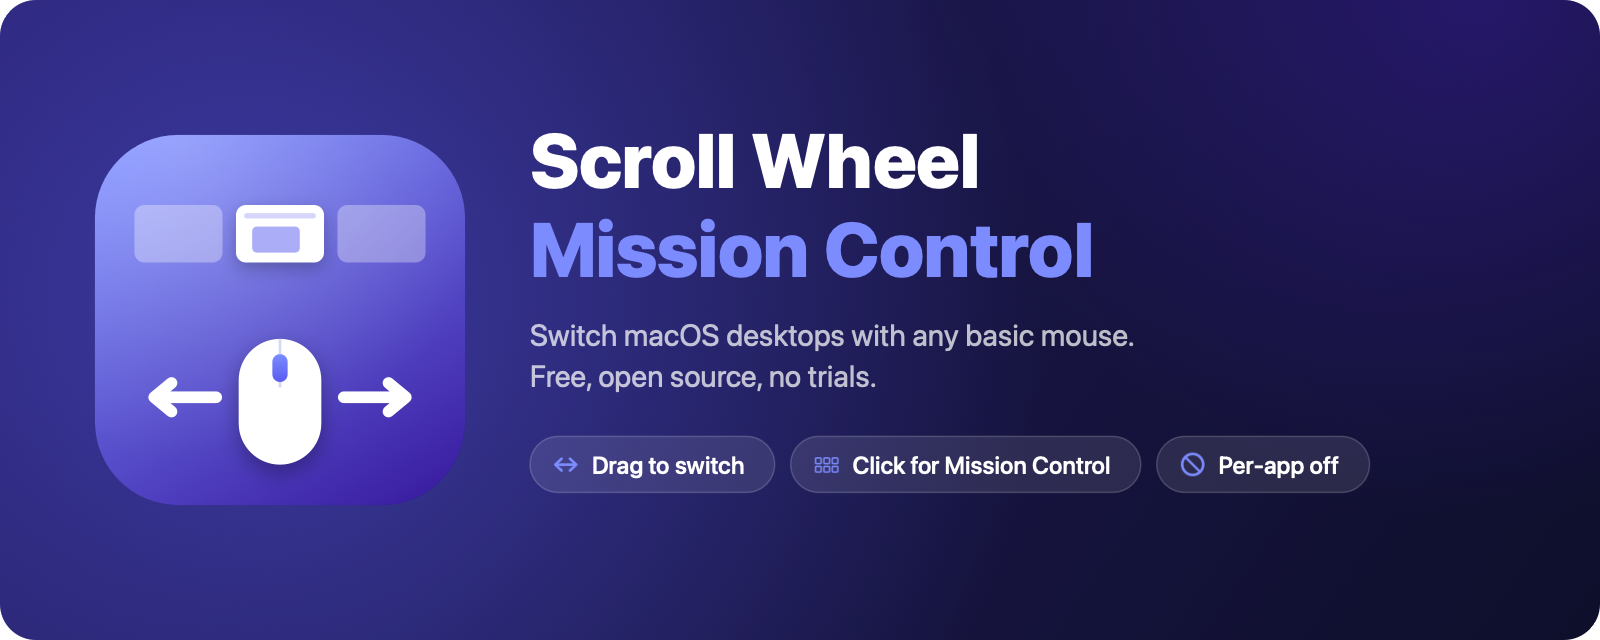
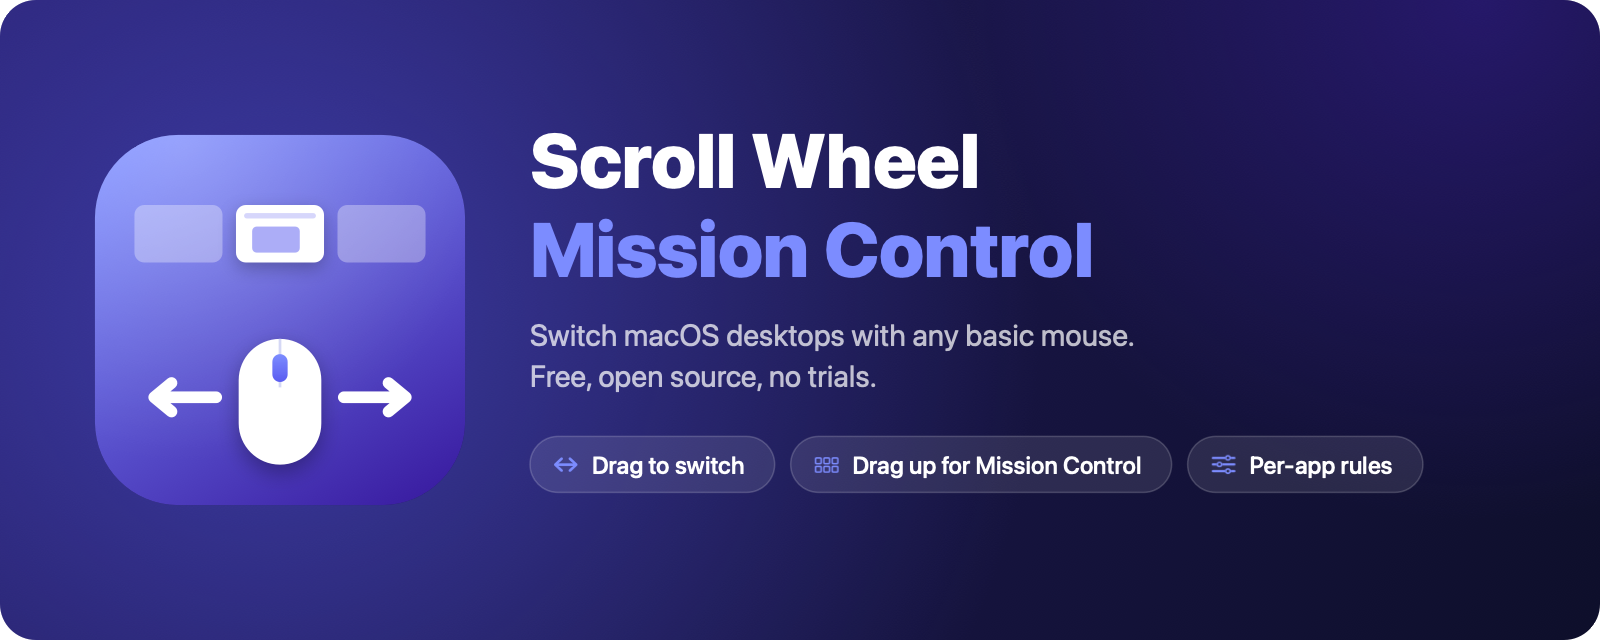
Update README, artwork and screenshots for 1.1.0

Changed region(s): [[0.5312, 0.6875, 0.875, 0.7812], [0.8438, 0.6562, 0.875, 0.6875]]

diff --git a/scripts/generate-art.swift b/scripts/generate-art.swift
@@ -202,8 +202,8 @@ func drawBanner(_ rect: CGRect) {
     y -= 44
     var x = left
     x += drawPill("Drag to switch", symbol: "arrow.left.and.right", at: CGPoint(x: x, y: y - 56)) + 16
-    x += drawPill("Click for Mission Control", symbol: "square.grid.3x2", at: CGPoint(x: x, y: y - 56)) + 16
-    _ = drawPill("Per-app off", symbol: "nosign", at: CGPoint(x: x, y: y - 56))
+    x += drawPill("Drag up for Mission Control", symbol: "square.grid.3x2", at: CGPoint(x: x, y: y - 56)) + 16
+    _ = drawPill("Per-app rules", symbol: "slider.horizontal.3", at: CGPoint(x: x, y: y - 56))
 }
 
 func drawGestureCard(_ rect: CGRect, symbol: String, title: String, body: String) {
@@ -231,9 +231,9 @@ func drawGestures(_ rect: CGRect) {
     let cards: [(String, String, String)] = [
         ("arrow.left.and.right", "Hold wheel + drag",
          "Move exactly one desktop left or right. Release and drag again to keep going."),
-        ("computermouse.fill", "Click the wheel",
-         "Open Mission Control, show the app's windows, or keep a normal middle click."),
-        ("nosign", "Exclude apps",
+        ("arrow.up.and.down", "Drag up or down",
+         "Mission Control and App Exposé, like a trackpad swipe. A click stays a normal middle click."),
+        ("slider.horizontal.3", "Per-app rules",
          "Blender and other 3D apps keep the middle button for orbiting and panning."),
     ]
     let pad: CGFloat = 48, gap: CGFloat = 28

diff --git a/README.md b/README.md
@@ -18,16 +18,16 @@
 
 # Scroll Wheel Mission Control
 
-**Use any cheap mouse to switch desktops on your Mac.** Hold the scroll wheel and drag left or right to move one desktop. Click the wheel to open Mission Control.
+**Use any cheap mouse to switch desktops on your Mac.** Hold the scroll wheel and drag left or right to move one desktop. Drag up for Mission Control, down for App Exposé. A plain click stays a normal middle click.
 
-Trackpads have swipe gestures for this. Regular mice don't, and the apps that add it usually want a subscription or a paid license after a trial. This app is free, small, and open source. It has no analytics and makes no network requests.
+Trackpads have swipe gestures for this. Regular mice don't, and the apps that add it usually want a subscription or a paid license after a trial. This app is free, small, and open source. It has no analytics, and it makes no network requests unless you turn on the optional update check.
 
 > [!TIP]
 > **Free forever. $0, no trial, no license key, no "pro" version, no ads, no tracking.**
 > If you found this while looking for a free alternative to Mac Mouse Fix, SteerMouse, BetterTouchTool or a vendor mouse app just to switch desktops, you're in the right place. See [the promise](#free-forever).
 
 <p align="center">
-  <img src="docs/images/gestures.png" alt="Hold wheel and drag to switch desktops, click the wheel for Mission Control, exclude apps like Blender" width="100%">
+  <img src="docs/images/gestures.png" alt="Hold wheel and drag left or right to switch desktops, drag up or down for Mission Control and App Exposé, per-app rules for apps like Blender" width="100%">
 </p>
 
 ## Contents
@@ -50,10 +50,12 @@ Trackpads have swipe gestures for this. Regular mice don't, and the apps that ad
 ## Features
 
 - **Drag to switch desktops.** Hold the scroll wheel and drag left or right. Each drag moves exactly one desktop, so you never fly past the one you want.
-- **Click for Mission Control.** A plain wheel click opens Mission Control. You can switch it to App Exposé or leave the normal middle click alone.
+- **Drag up or down for Mission Control and App Exposé**, like a three-finger swipe on a trackpad. Each direction can also be set to Show Desktop or nothing.
+- **Middle click still works.** A plain wheel click stays a normal middle click (open links in new tabs). You can make it open Mission Control or App Exposé instead, or do nothing.
 - **Natural or standard direction.** Natural moves the screen with your hand, like pushing it aside. Standard matches the arrow keys.
 - **Adjustable drag distance.** Choose how far you have to drag before it counts.
-- **Per-app exclusions.** Blender is excluded out of the box, so middle-mouse orbit and pan keep working. Add any other app in two clicks.
+- **Per-app rules.** Turn the app off completely for Blender and other 3D tools (Blender is set up out of the box), or keep gestures but always pass the plain click through.
+- **Optional update check.** Off by default. When on, it tells you when a new version is out. It never downloads or installs anything by itself.
 - **Menu bar app.** No Dock icon. Pause it from the menu bar whenever you like.
 - **Launch at login**, using the standard macOS login items.
 - **Universal binary.** Runs natively on Apple Silicon and Intel Macs with macOS 13 Ventura or later.
@@ -101,11 +103,13 @@ The app needs **Accessibility** permission so it can see scroll wheel clicks and
 | --- | --- |
 | Hold the wheel, drag **right** | Go to the desktop on the **left** (natural) or **right** (standard) |
 | Hold the wheel, drag **left** | Go to the desktop on the **right** (natural) or **left** (standard) |
-| Click the wheel | Open Mission Control (configurable) |
+| Hold the wheel, drag **up** | Open Mission Control (configurable) |
+| Hold the wheel, drag **down** | Show the current app's windows, App Exposé (configurable) |
+| Click the wheel | Normal middle click (configurable) |
 
-Each drag moves one desktop. To move further, release the wheel and drag again.
+Each drag does one thing. To move further, release the wheel and drag again. Whichever direction you drag furthest wins, so a slightly diagonal drag still counts as left, right, up or down.
 
-**Don't have multiple desktops yet?** Click the wheel to open Mission Control, then click the **+** at the top right of the screen to add one.
+**Don't have multiple desktops yet?** Drag up to open Mission Control, then click the **+** at the top right of the screen to add one.
 
 ## Settings
 
@@ -114,7 +118,7 @@ Open **Settings...** from the menu bar icon, or open the app again from Spotligh
 <p align="center">
   <picture>
     <source media="(prefers-color-scheme: dark)" srcset="docs/images/settings-dark.png">
-    <img src="docs/images/settings-light.png" alt="Settings window with gesture, click action and excluded apps options" width="460">
+    <img src="docs/images/settings-light.png" alt="Settings window with gesture actions, drag distance, app rules and update options" width="460">
   </picture>
 </p>
 
@@ -122,12 +126,20 @@ Open **Settings...** from the menu bar icon, or open the app again from Spotligh
 | --- | --- | --- |
 | Enable scroll wheel gestures | Master on/off switch. Also available in the menu bar. | On |
 | Launch at login | Start automatically when you log in | Off |
-| Drag direction | **Natural**: drag right to reveal the desktop on the left. **Standard**: drag right to go right. | Natural |
-| Drag distance | How far (in points) you must drag before it switches | 30 pt |
-| Wheel click | Open Mission Control, show app windows (App Exposé), or a normal middle click | Mission Control |
-| Excluded apps | While one of these apps is in front, the wheel works normally | Blender |
+| Drag left / right | Switch desktop. **Natural**: drag right to reveal the desktop on the left. **Standard**: drag right to go right. | Natural |
+| Drag up | Mission Control, App Exposé, Show Desktop, or nothing | Mission Control |
+| Drag down | Mission Control, App Exposé, Show Desktop, or nothing | App Exposé |
+| Wheel click | Normal middle click, Mission Control, App Exposé, or nothing | Normal middle click |
+| Drag distance | How far (in points) you must drag before it counts | 30 pt |
+| App rules | Per-app behavior, see below | Blender: Off |
+| Check for updates automatically | Ask GitHub once a day whether a new version is out | Off |
 
-**Excluding apps:** click **Add App** to choose a running app, or pick one from your Applications folder. This is useful for 3D and design tools (Blender, Cinema 4D, Maya, Fusion 360, Unity, Unreal) and anything else that uses middle-drag. It is also useful for browsers, if you open links in new tabs with a middle click.
+**App rules:** click **Add App** to choose a running app, or pick one from your Applications folder, then choose a mode:
+
+- **Off:** the app gets the middle button completely untouched. Use this for 3D and design tools that use middle-drag (Blender, Cinema 4D, Maya, Fusion 360, Unity, Unreal).
+- **Gestures only:** dragging still triggers gestures, but a plain click always reaches the app as a normal middle click, whatever **Wheel click** is set to.
+
+**Updates:** with automatic checks on, the menu bar menu and the settings window show "Version X is available" with a **Download** button. **Check Now** checks immediately, even with automatic checks off.
 
 ## Troubleshooting
 
@@ -161,10 +173,12 @@ You probably also assigned a mouse button to Mission Control in macOS itself. Go
 <details>
 <summary><b>Middle click stopped working in my browser or editor</b></summary>
 
-The app takes over the wheel click everywhere. You have two options:
+By default a plain wheel click passes through as a normal middle click. If it doesn't:
 
-- Add that app to **Excluded apps**, or
-- Set **Wheel click** to **Normal middle click**. Dragging still switches desktops.
+- Check that **Wheel click** is set to **Normal middle click**, or
+- Add that app under **App rules** with the mode **Gestures only** (keeps dragging) or **Off** (the app gets the middle button untouched).
+
+Middle-button *dragging* inside apps is used for gestures. If an app needs middle-drag, set it to **Off**.
 
 </details>
 
@@ -218,7 +232,8 @@ Sources/ScrollWheelMissionControl/
   App.swift              Menu bar app entry point and menu
   GestureEngine.swift    Event tap: turns wheel clicks and drags into actions
   SystemActions.swift    Posts the Spaces / Mission Control shortcuts
-  AppSettings.swift      Preferences stored in UserDefaults
+  AppSettings.swift      Preferences and per-app rules stored in UserDefaults
+  UpdateChecker.swift    Opt-in check for a newer GitHub release
   SettingsView.swift     SwiftUI settings window
   SystemSettingsLinks.swift  Accessibility prompt and launch-at-login helpers
 Resources/               Info.plist and the 1024px icon
@@ -228,16 +243,17 @@ scripts/                 App bundling, DMG packaging, artwork and screenshots
 ## How it works
 
 1. A [`CGEventTap`](https://developer.apple.com/documentation/coregraphics/1454426-cgeventtapcreate) listens only for **middle mouse button** events (down, drag, up). Normal clicks, the scroll wheel itself, and the keyboard are never touched.
-2. On button down it checks the frontmost app. If that app is excluded, or the app is paused, the events pass through unchanged.
-3. If you drag past the threshold horizontally, it posts **Ctrl + Left/Right**, the same shortcut macOS already uses for "Move left/right a space". Then it ignores the rest of that drag.
+2. On button down it checks the frontmost app. If that app's rule is **Off**, or the app is paused, the events pass through unchanged.
+3. Once you drag past the threshold, the dominant direction decides the action. Left/right posts **Ctrl + Left/Right**, the same shortcut macOS already uses for "Move left/right a space". Up/down posts the Mission Control (**Ctrl + Up**), App Exposé (**Ctrl + Down**) or Show Desktop (**F11**) shortcut. Then it ignores the rest of that drag.
 4. If you release without dragging, it runs the wheel click action.
-5. The original middle-button events are swallowed so apps don't also react to them. When "Normal middle click" is selected, the click is re-sent tagged, so it passes through.
+5. The original middle-button events are swallowed so apps don't also react to them. For a normal middle click, the click is re-sent tagged, so it passes through.
 
 Because it drives the system's own shortcuts, desktops switch with the standard macOS animation, and there are no private APIs to break on OS updates.
 
 ## Privacy
 
-- No network access, analytics, or telemetry.
+- No analytics or telemetry.
+- No network access, with one optional exception: if you turn on **Check for updates automatically** (off by default) or click **Check Now**, the app sends one anonymous HTTPS request to the public GitHub API for the latest release version. Nothing about you, your Mac or your settings is sent, and it never downloads or installs anything by itself.
 - Accessibility permission is used only to see middle mouse button events and to post the desktop shortcuts. Nothing is logged or stored except your settings.
 - The code is small enough to read in a few minutes. Please do.
 
@@ -246,7 +262,7 @@ Because it drives the system's own shortcuts, desktops switch with the standard 
 This project will always be **free of charge and open source**:
 
 - **$0.** No trial period, no license key, no paid tier, no "unlock" purchase, no subscription.
-- **No ads, no telemetry, no account.** The app never connects to the internet.
+- **No ads, no telemetry, no account.** The app doesn't connect to the internet unless you turn on the optional update check.
 - **Every feature is included.** Nothing is held back for a paid version, because there is no paid version.
 - **MIT licensed.** Even if this repository disappeared or the maintainer changed their mind, anyone can fork the code and keep it free. The license makes that permanent.
 
@@ -264,7 +280,7 @@ macOS only has swipe gestures for trackpads and Magic Mouse. With this app insta
 <details>
 <summary><b>How do I open Mission Control with the middle mouse button?</b></summary>
 
-Install this app and click the scroll wheel. macOS also has a built-in option (**System Settings > Desktop & Dock > Shortcuts... > Mission Control > Mouse Button 3**), but it can't be turned off per app, and it can't switch desktops by dragging.
+Install this app, hold the scroll wheel and drag up. You can also set a plain wheel click to open Mission Control. macOS also has a built-in option (**System Settings > Desktop & Dock > Shortcuts... > Mission Control > Mouse Button 3**), but it can't be turned off per app, and it can't switch desktops by dragging.
 
 </details>
 
@@ -287,14 +303,14 @@ Any mouse with a clickable scroll wheel (middle button) works: cheap USB mice, B
 <details>
 <summary><b>Will it break middle-click in Blender or my browser?</b></summary>
 
-Blender is excluded by default, so orbit and pan work as usual. You can exclude any other app, or set **Wheel click** to **Normal middle click** to keep middle-click everywhere while still dragging to switch desktops.
+No. A plain wheel click stays a normal middle click by default, so opening links in new tabs keeps working. Blender is set to **Off** under App rules, so orbit and pan work as usual. Add any other app that uses middle-drag the same way.
 
 </details>
 
 <details>
 <summary><b>Is it safe? Why does it need Accessibility permission?</b></summary>
 
-macOS requires Accessibility permission for any app that reads mouse buttons system-wide or presses shortcuts for you. The app only listens to middle-button events and never connects to the internet. The code is short and public, so you can check exactly what it does, or [build it yourself](#build-from-source).
+macOS requires Accessibility permission for any app that reads mouse buttons system-wide or presses shortcuts for you. The app only listens to middle-button events and doesn't connect to the internet unless you turn on the optional update check. The code is short and public, so you can check exactly what it does, or [build it yourself](#build-from-source).
 
 </details>
 
@@ -302,7 +318,7 @@ macOS requires Accessibility permission for any app that reads mouse buttons sys
 
 Issues and pull requests are welcome. Some ideas:
 
-- Vertical drag actions (for example, drag up for Mission Control, down for App Exposé)
+- A small on-screen hint when a drag is about to trigger
 - Support for mice with extra side buttons
 - A Homebrew cask
 - Localization
